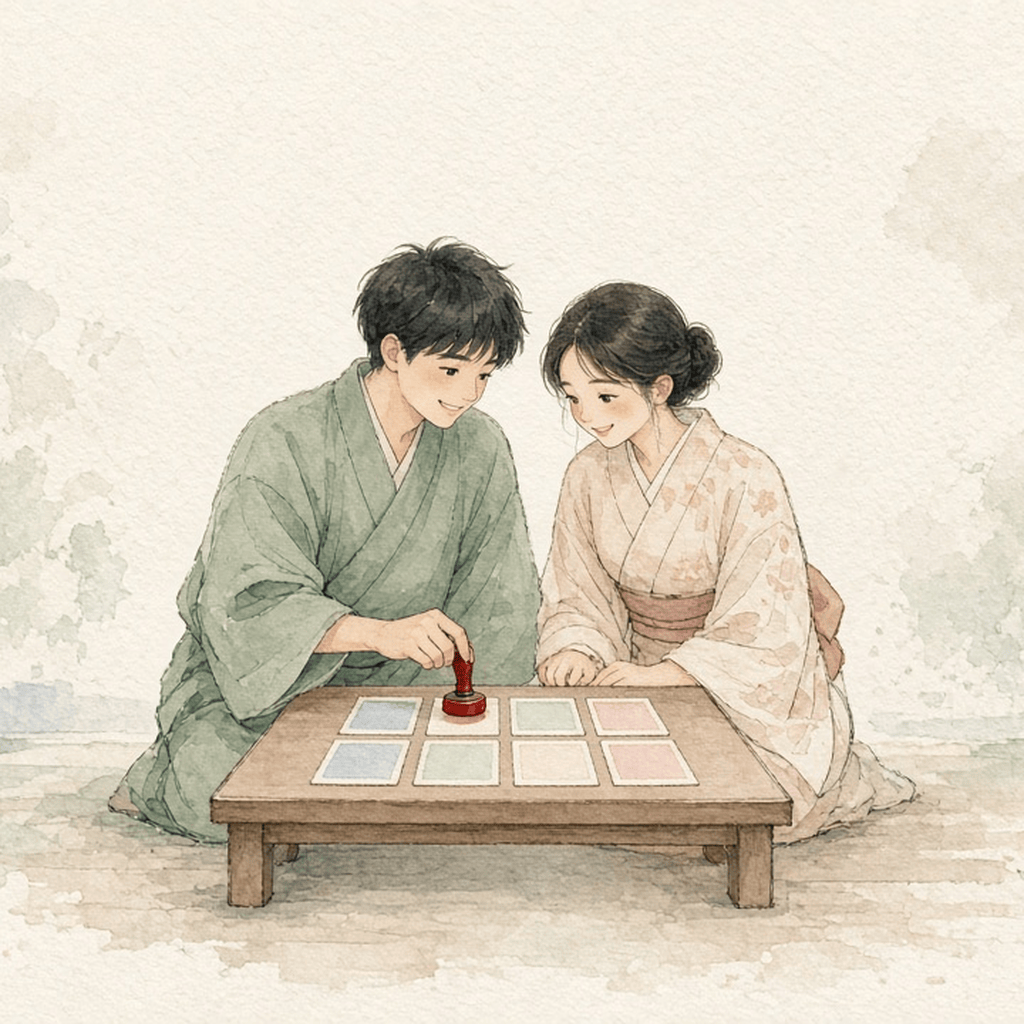
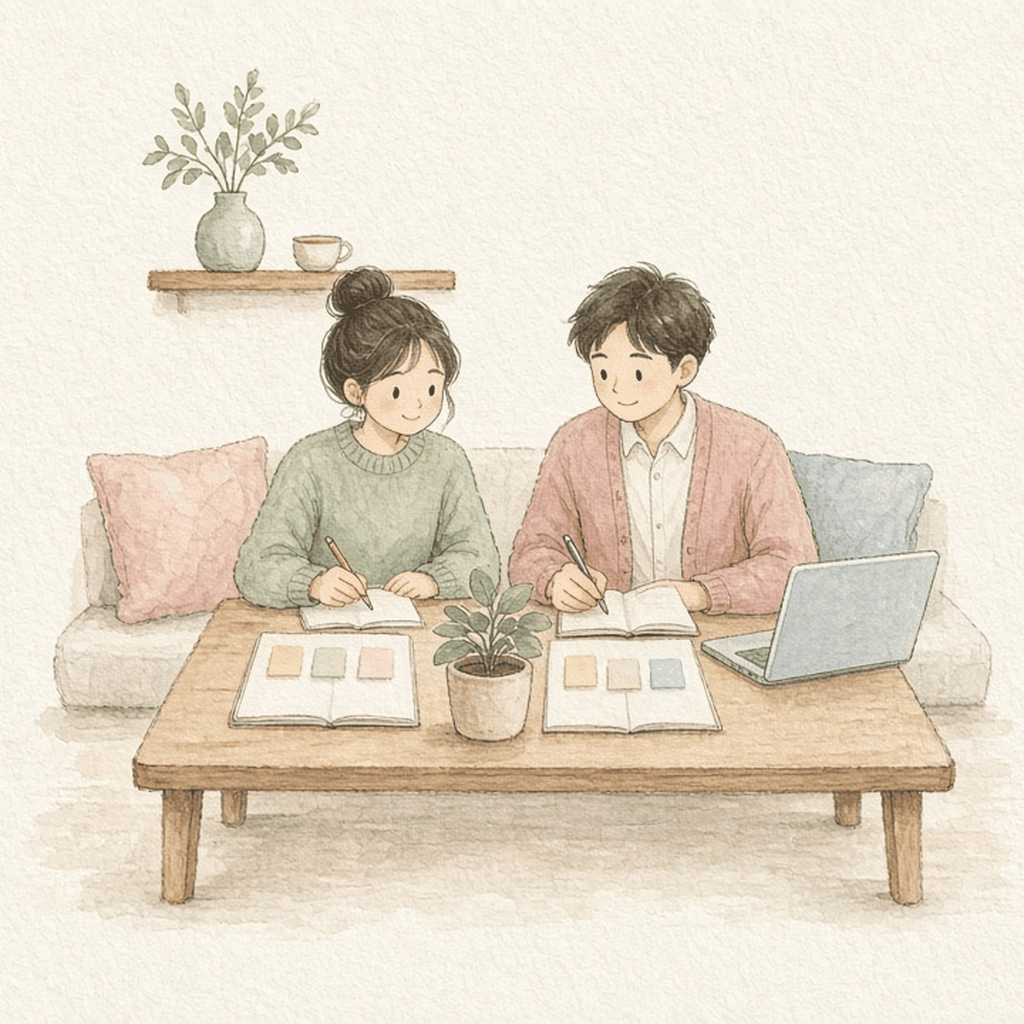
絵の描き直し17枚：式に見える絵・切れた人・クリーム枠をなくし、同じ章の重複と合意カードの同じ絵を別々の絵に (#60)

diff --git a/src/components/PairWorkbook.tsx b/src/components/PairWorkbook.tsx
@@ -38,6 +38,27 @@ const THEME_ART = [
 
 const TALK_ART = 'phases/gen-stamp-grid.png';
 const AGREE_ART = 'phases/lux-filing.png';
+/** 合意カードは話題ごとに別の絵（2026-10-03）。ここに無い id は最後に AGREE_ART のカードへまとめる。 */
+const AGREE_GROUPS: {label: string; art: string; ids: string[]}[] = [
+  {label: '暮らし・会話・楽しみ', art: 'phases/agree-life.png', ids: ['G01', 'G02', 'G03', 'G04']},
+  {label: '家事・予定・忙しい日', art: 'phases/agree-chores.png', ids: ['G05', 'G06', 'G07', 'G08']},
+  {label: 'お金・働き方', art: 'phases/agree-money.png', ids: ['G09', 'G10']},
+  {label: 'けんか・仲直り', art: 'phases/agree-repair.png', ids: ['G11', 'G12']},
+  {label: '親族・共有する情報', art: 'phases/agree-family.png', ids: ['G13', 'G14']},
+  {label: '親密さ・子育て・頼る先', art: 'phases/agree-care.png', ids: ['G15', 'G16', 'G17', 'G18']},
+];
+
+function agreeCards(items: Agreement[]): {label: string; art: string; items: Agreement[]}[] {
+  const used = new Set<string>();
+  const cards = AGREE_GROUPS.map((g) => {
+    const its = items.filter((a) => g.ids.includes(a.id));
+    its.forEach((a) => used.add(a.id));
+    return {label: g.label, art: g.art, items: its};
+  }).filter((c) => c.items.length);
+  const rest = items.filter((a) => !used.has(a.id));
+  chunkPads(rest).forEach((chunk, i, all) => cards.push({label: all.length > 1 ? `二人の合意 ${i + 1}/${all.length}` : '二人の合意', art: AGREE_ART, items: chunk}));
+  return cards;
+}
 
 const FILL_ORDER = [3, 2, 0, 1, 4, 5, 6, 7, 8, 9, 10, 11];
 const MAX_PADS = 12;
@@ -688,18 +709,17 @@ function AgreeStampBoard({
   onSaveAgreement: (id: string, record: AgreementRecord) => boolean | Promise<boolean>;
   setDraft: Dispatch<SetStateAction<Record<string, AgreementRecord>>>;
 }) {
-  const chunks = chunkPads(items);
+  const cards = agreeCards(items);
   return (
     <div className="pair-stamp stamp-rally" role="list">
-      {chunks.map((chunk, partIdx) => {
-        const partTotal = chunks.length;
-        const caption = partTotal > 1 ? `合意 ${partIdx + 1}/${partTotal}` : '二人の合意';
+      {cards.map(({label, art, items: chunk}, partIdx) => {
+        const caption = label;
         const doneCount = chunk.filter((a) => (book.agreements[a.id]?.agreed || '').trim()).length;
         const allDone = chunk.length > 0 && doneCount === chunk.length;
         return (
           <article key={`agree-${partIdx}`} role="listitem" className={`illust-square pair-stamp-card${chunk.some((a) => a.id === openId) ? ' selected' : ''}${allDone ? ' complete' : ''}`}>
             <div className="illust-frame">
-              <img className="illust-art" src={AGREE_ART} alt="" loading="lazy" decoding="async" />
+              <img className="illust-art" src={art} alt="" loading="lazy" decoding="async" />
               <div className={`illust-pads${chunk.length > 6 ? ' pads-dense' : ''}`} role="group" aria-label={`${caption}のスタンプ台`}>
                 {chunk.map((a, idx) => {
                   const done = !!(book.agreements[a.id]?.agreed || '').trim();

diff --git a/docs/DECISIONS.md b/docs/DECISIONS.md
@@ -145,3 +145,4 @@
 - 2026-10-03 ホーム画面の名前を「結婚ロードマップ」に（manifest の name / short_name・apple-mobile-web-app-title・application-name・ページの title／og / twitter の題も）。右下のチャットの名前「Amityちゃんにきく」はそのまま。公開ページは合言葉で暗号化しているので、manifest と本体の index.html は合言葉を入れたあと service worker が返す。合言葉の前（解錠ページ）にはアプリの名前を置けない（平文検査で落ちる）ため、解錠ページに「ホーム画面に追加するときは、開いたあとで追加してください。」、設定の「使い続けるためのメモ」にも同じ案内を足した。前に追加したホーム画面のアイコンは、追加し直すと新しい名前になる。理由：Kenji の依頼。
 - 2026-10-03 ふたりタブのレッスン動画25本（lesson1〜25.mp4・ポスター25枚）を描き直さずに作り直し。前の版は、16:9 の絵の後ろに同じ絵をぼかしてクリーム色を重ねた背景を敷いていた。新しい版はぼかし・クリームの地なし：絵は横幅いっぱい（1080px・16:9 を切らずに全体）、見出し・字幕・出典は紺（#183645・アプリのテーマ色）の地に白と金の文字。ナレーション・字幕・出典・場面・長さ・ファイル名は前と同じ（`futari-lessons.json` は変えていない）。作り方は箱の `/workspace/gottman-preview/video/tools/build_clean.py N`（各 lessonN の segs.py・img・audio.wav を使う。リポジトリには入れていない）。理由：Kenji の依頼。
 - 2026-10-03 項目の欄（why・miss・window・やること・金額のメモ）に残っていた作り手あてのメモを掃除（76欄・データと欄は1つも消していない）。内部の項目番号（A必1・K18 など）は項目名に、「同上」は前の項目の期限・日程に展開（C14-2・F3・F6）、埋めていない「○日」「○週間」（D1・D12・D13）と意味の通らない「同一市内改氏に90日と書いていない」（C即9）は、規程や公式で確かめるよう案内する文に（日数・期限・金額は足していない）。「円は創作しない」「教えるな」「→NO」「本線」「分岐」「死ぬ」などの言い方は読み手への文に、あとから貼り付けた重複メモ（K17・P9・F1・A得6）は一つにまとめた。G12 の「手取りで実質10割相当」は断定なので削除。検査は `npm run audit:fields`（scripts/field-audit.mjs、80→0）。理由：Kenji の依頼。
+- 2026-10-03 絵の描き直し17枚（Kenji が候補を承認）。差し替え（同じファイル名）：自営の届出・言葉の場面の `gen-stamp-grid`（クリーム色の枠をなくした）、挙式・祝金・年末調整の `rm-company` と二人で決める・育休転勤の `gen-stamp-board`（式・和装に見える絵をやめ、ふだん着の二人の机の場面に）、称する氏・名義変更の `rm-namechange` と手当と名義・光熱の `lux-cohabit`（人が端で切れない構図に）、家族割の `gen-money-family`、財産の約束の `phase8-divorce-hedge`、証明書の `lux-filing`。同じ章で同じ絵が2回出ないように、iDeCo・贈与は `gen-money-iDeCo`、民間の特典は `gen-money-perks`、遺言と後見は `phase8-hedge-legal` に。ふたりタブの「二人の合意」は、18問を同じ絵の2枚に分けていたのをやめ、話題ごとの6枚（暮らし・会話・楽しみ／家事・予定・忙しい日／お金・働き方／けんか・仲直り／親族・共有する情報／親密さ・子育て・頼る先）にして、それぞれ別の絵（`agree-*.png`）にした。どれも正方形1024×1024・256色・字なし・式の場面なし・頭の上に余白あり。収録データ（合意18問・項目）は変えていない。理由：Kenji の依頼。
